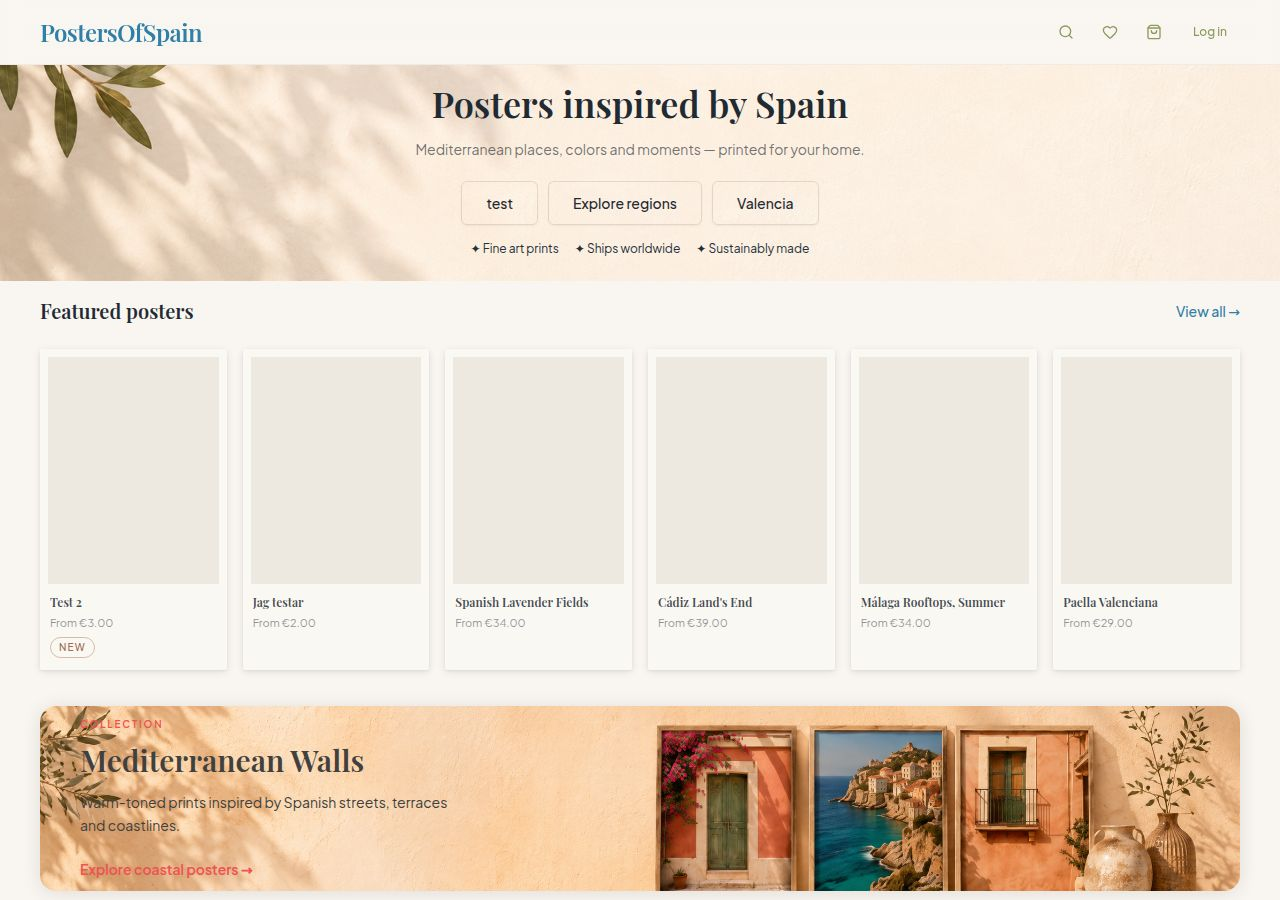
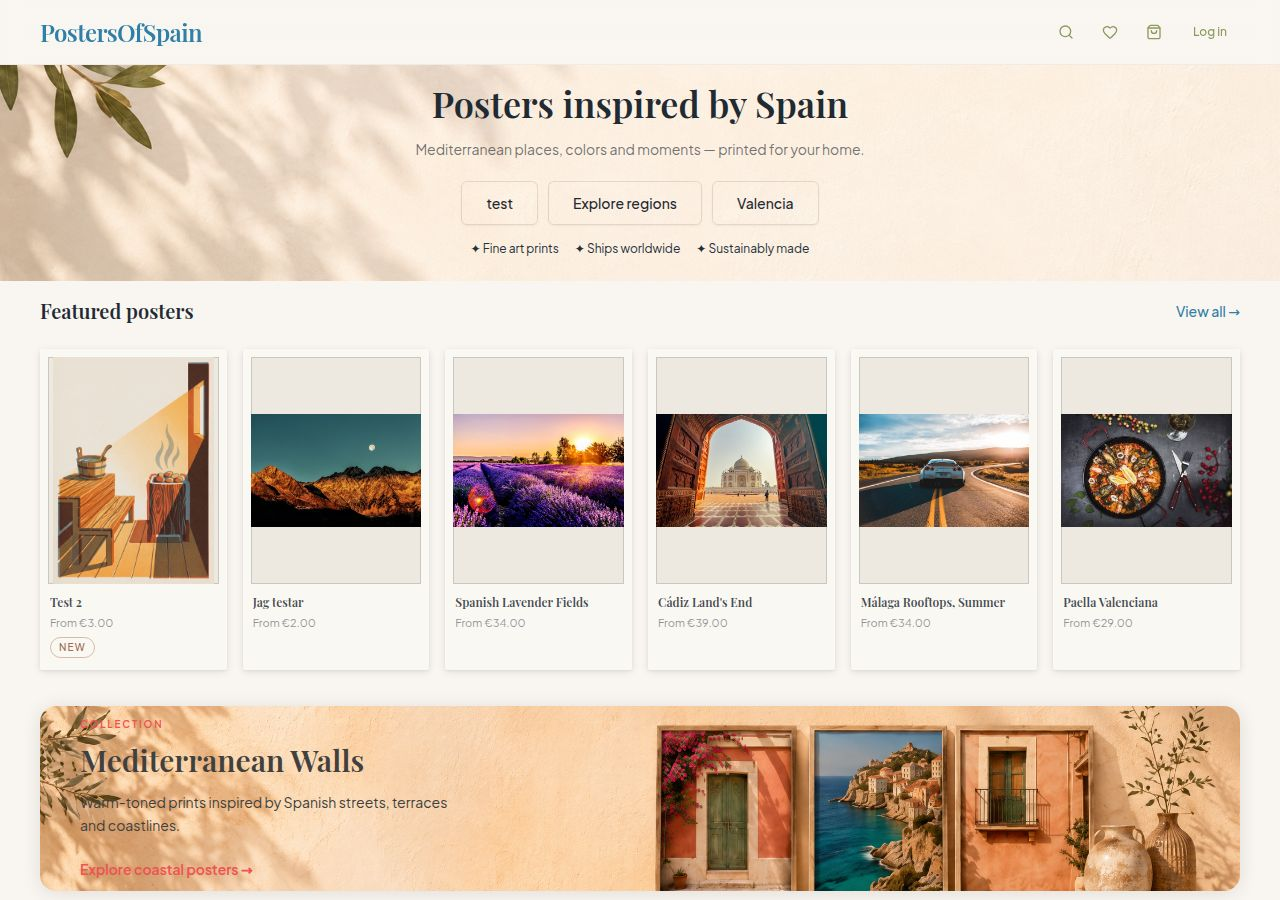
Display posters correctly on the homepage by fixing image sizing
Adjust image wrapper styles to ensure proper rendering of posters across different aspect ratios.

Replit-Commit-Author: Agent
Replit-Commit-Session-Id: 641ee1b9-c37c-4593-ab33-4a5f54bb3c5f
Replit-Commit-Checkpoint-Type: full_checkpoint
Replit-Commit-Event-Id: 591a5277-9001-4f0b-b1bc-c5721872b8e5
Replit-Commit-Screenshot-Url: https://storage.googleapis.com/screenshot-production-us-central1/381230bc-e6ff-44a5-9391-447ea06c2c17/641ee1b9-c37c-4593-ab33-4a5f54bb3c5f/JlO00pn
Replit-Helium-Checkpoint-Created: true

Changed region(s): [[0.0312, 0.4044, 0.9688, 0.6533]]

diff --git a/artifacts/poster-store/src/pages/Home.tsx b/artifacts/poster-store/src/pages/Home.tsx
@@ -174,7 +174,7 @@ function HomePosterCard({ poster }: { poster: Poster }) {
                 ? "transition-transform duration-[300ms] ease-out scale-100 group-hover:scale-[1.07] group-focus-within:scale-[1.07] motion-reduce:transition-none"
                 : "",
             ].join(" ")}
-            style={{ aspectRatio: ratio ? String(ratio) : "3/4", maxWidth: "100%", maxHeight: "100%" }}
+            style={{ aspectRatio: ratio ? String(ratio) : "3/4", width: "100%", maxHeight: "100%" }}
           >
             <img
               src={getOptimizedImageUrl(baseImage, { width: 600, quality: 85 })}
@@ -252,7 +252,7 @@ function NewArrivalCard({
         <div className="absolute inset-0 flex items-center justify-center">
           <div
             className="relative transition-transform duration-300 ease-out scale-100 group-hover:scale-[1.05] motion-reduce:transition-none"
-            style={{ aspectRatio: newArrivalRatio ? String(newArrivalRatio) : "3/4", maxWidth: "100%", maxHeight: "100%" }}
+            style={{ aspectRatio: newArrivalRatio ? String(newArrivalRatio) : "3/4", width: "100%", maxHeight: "100%" }}
           >
             <img
               src={getOptimizedImageUrl(baseImage, { width: 400, quality: 75 })}
@@ -345,7 +345,7 @@ function FeaturedPosterCard({
           <div className="absolute inset-0 flex items-center justify-center">
             <div
               className="relative ring-1 ring-inset ring-black/[0.14] transition-transform duration-300 ease-out scale-100 group-hover:scale-[1.04] motion-reduce:transition-none"
-              style={{ aspectRatio: ratio ? String(ratio) : "3/4", maxWidth: "100%", maxHeight: "100%" }}
+              style={{ aspectRatio: ratio ? String(ratio) : "3/4", width: "100%", maxHeight: "100%" }}
             >
               <img
                 src={getOptimizedImageUrl(displayImage, { width: 600, quality: 85 })}

diff --git a/artifacts/poster-store/src/components/shared/PosterArtworkStage.tsx b/artifacts/poster-store/src/components/shared/PosterArtworkStage.tsx
@@ -84,7 +84,7 @@ export function PosterArtworkStage({
         )}
         style={{
           aspectRatio: aspectRatio ? String(aspectRatio) : "3/4",
-          maxWidth: "100%",
+          width: "100%",
           maxHeight: "100%",
         }}
       >

diff --git a/.agents/memory/ratio-wrapper-sizing.md b/.agents/memory/ratio-wrapper-sizing.md
@@ -1,0 +1,25 @@
+---
+name: Ratio-wrapper sizing for absolutely-positioned children
+description: CSS aspect-ratio inner wrappers silently collapse to 0×0 when their only children are absolutely positioned — fix is to set an explicit starting axis dimension.
+---
+
+## The rule
+
+When using an inner ratio-wrapper div to size an artwork area (the pattern used in PosterArtworkStage, HomePosterCard, FeaturedPosterCard, NewArrivalCard), always set `width: "100%"` on it — never `maxWidth: "100%"` alone.
+
+```jsx
+// WRONG — collapses to 0×0 when img is absolute inset-0
+style={{ aspectRatio: "0.714", maxWidth: "100%", maxHeight: "100%" }}
+
+// CORRECT — browser computes height from width + aspect-ratio, max-height caps portrait overflow
+style={{ aspectRatio: "0.714", width: "100%", maxHeight: "100%" }}
+```
+
+**Why:** `aspect-ratio` needs one concrete axis to derive the other. An absolutely-positioned child (`absolute inset-0`) contributes zero to the parent's intrinsic size. So `maxWidth: 100% + maxHeight: 100%` with no explicit width/height gives the browser nothing to start from — the flex child reports zero intrinsic size and renders invisible. Setting `width: 100%` gives a concrete starting width; `aspect-ratio` then computes the height; `max-height: 100%` prevents portrait overflow beyond the card.
+
+**How to apply:**
+- Applies everywhere a ratio-aware inner wrapper contains only absolutely-positioned content (images, overlays).
+- The pair `width: 100%; maxHeight: 100%; aspectRatio: ratio` works for all orientations:
+  - Portrait (ratio < 1): fills card width, height = width/ratio capped at card height → thin side gaps
+  - Landscape (ratio > 1): fills card width, height < card height → warm background above/below
+  - Square: fills card width, roughly equal height

diff --git a/.agents/memory/MEMORY.md b/.agents/memory/MEMORY.md
@@ -2,3 +2,4 @@
 - [Homepage section-level visual overrides](homepage-visual-overrides.md) — Section font/color overrides live on HomepageSectionConfig, not HeroVisualConfig; button styles are on HeroVisualConfig.
 - [Poster card presentation system](poster-card-presentation.md) — Three-mode artwork display (current/full-image/stage) via PosterArtworkStage component; store-level DB column; default is "current" (safe fallback).
 - [DB schema push — interactive prompt workaround](db-push-workaround.md) — drizzle-kit push always prompts for favorites constraint; use raw psql for simple column additions to avoid blocking.
+- [Ratio-wrapper sizing for absolutely-positioned children](ratio-wrapper-sizing.md) — aspect-ratio inner wrappers with abs-pos-only children need an explicit starting axis (width:100%) or they collapse to zero.